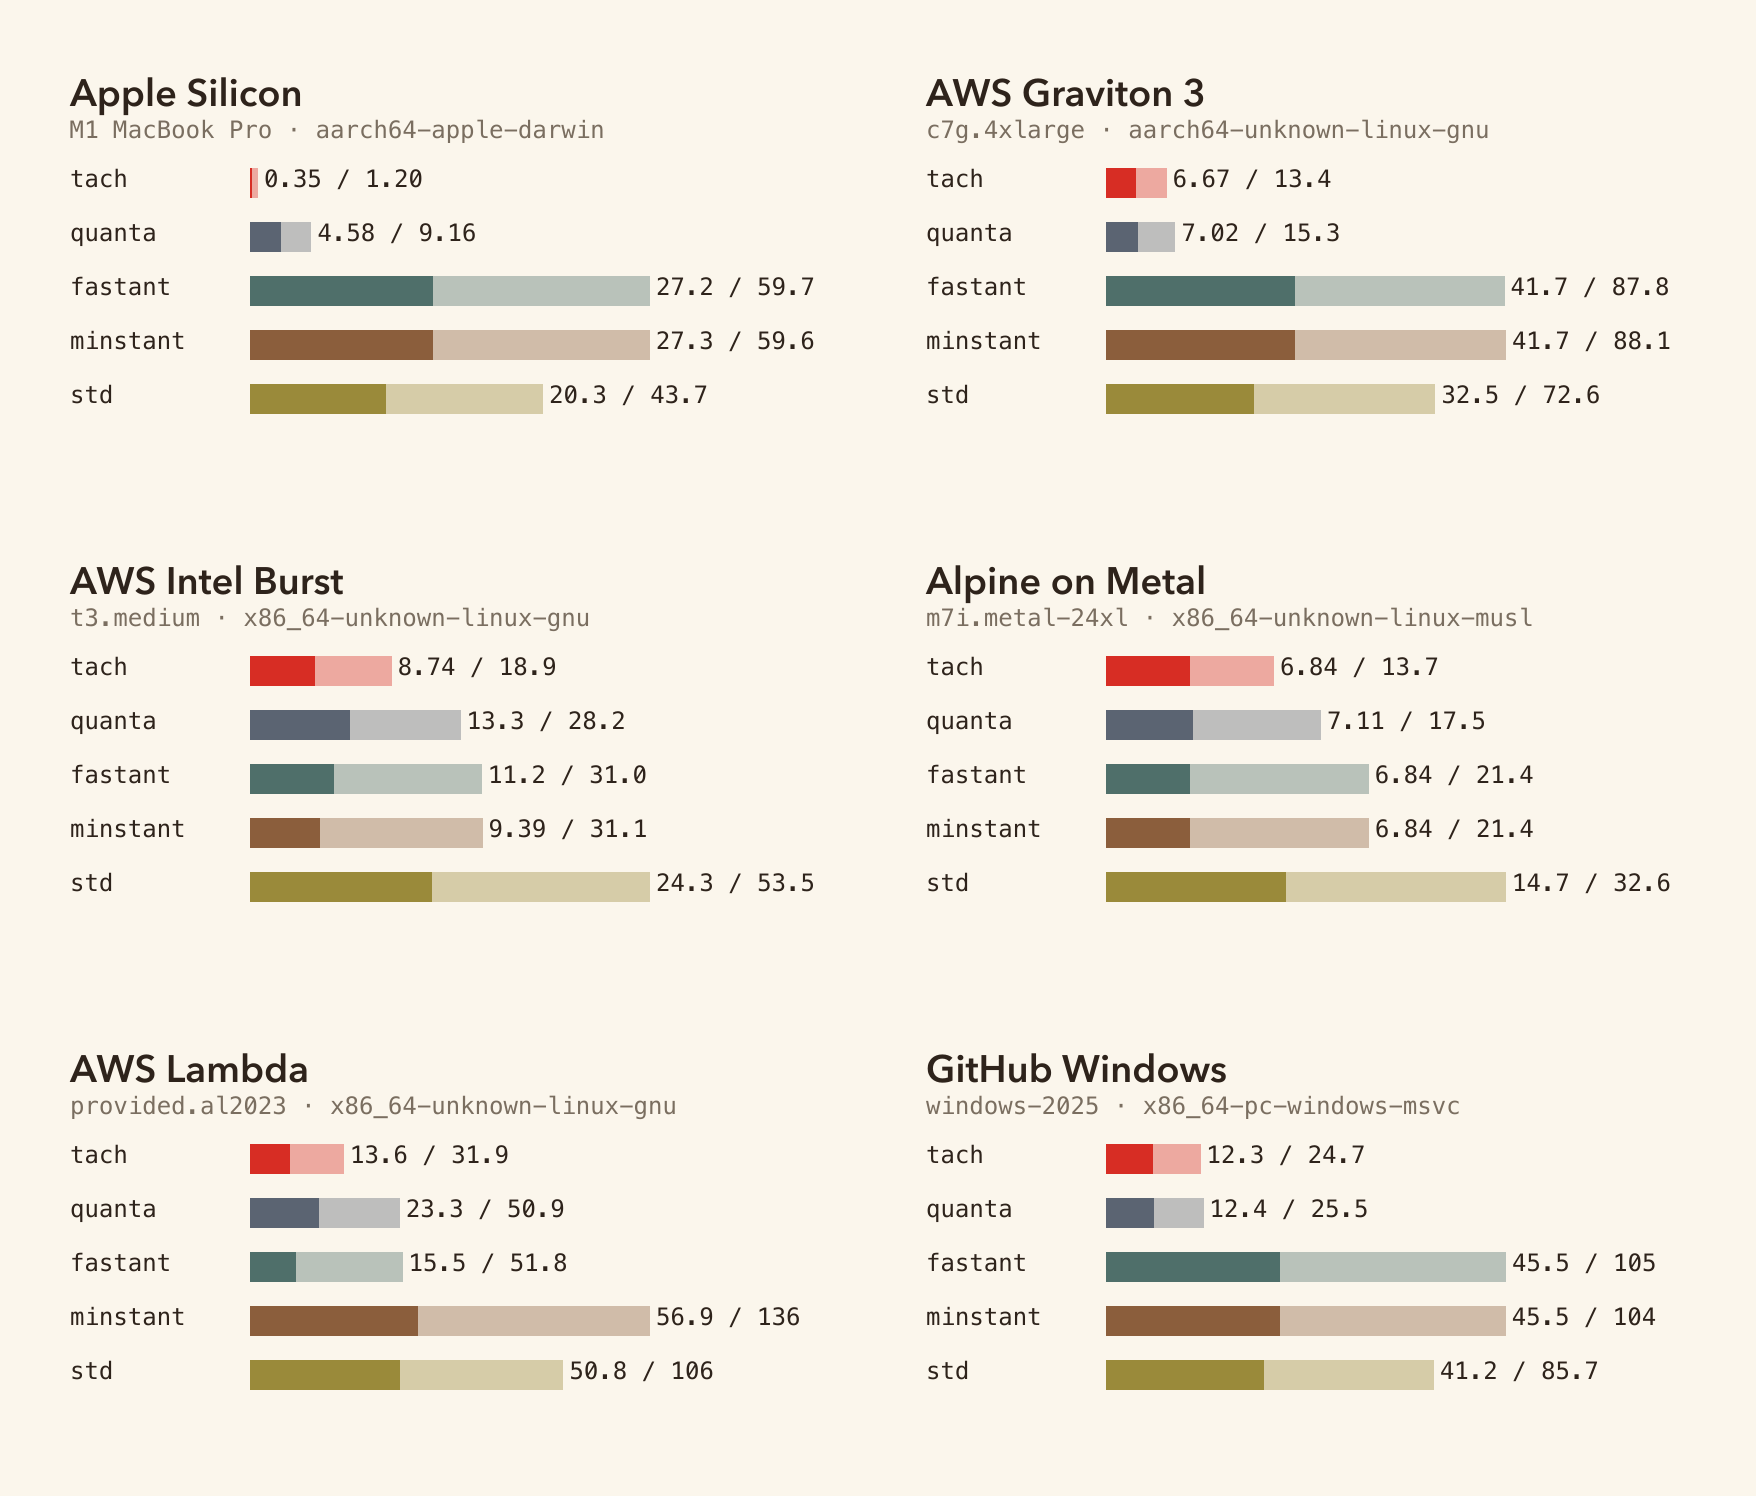
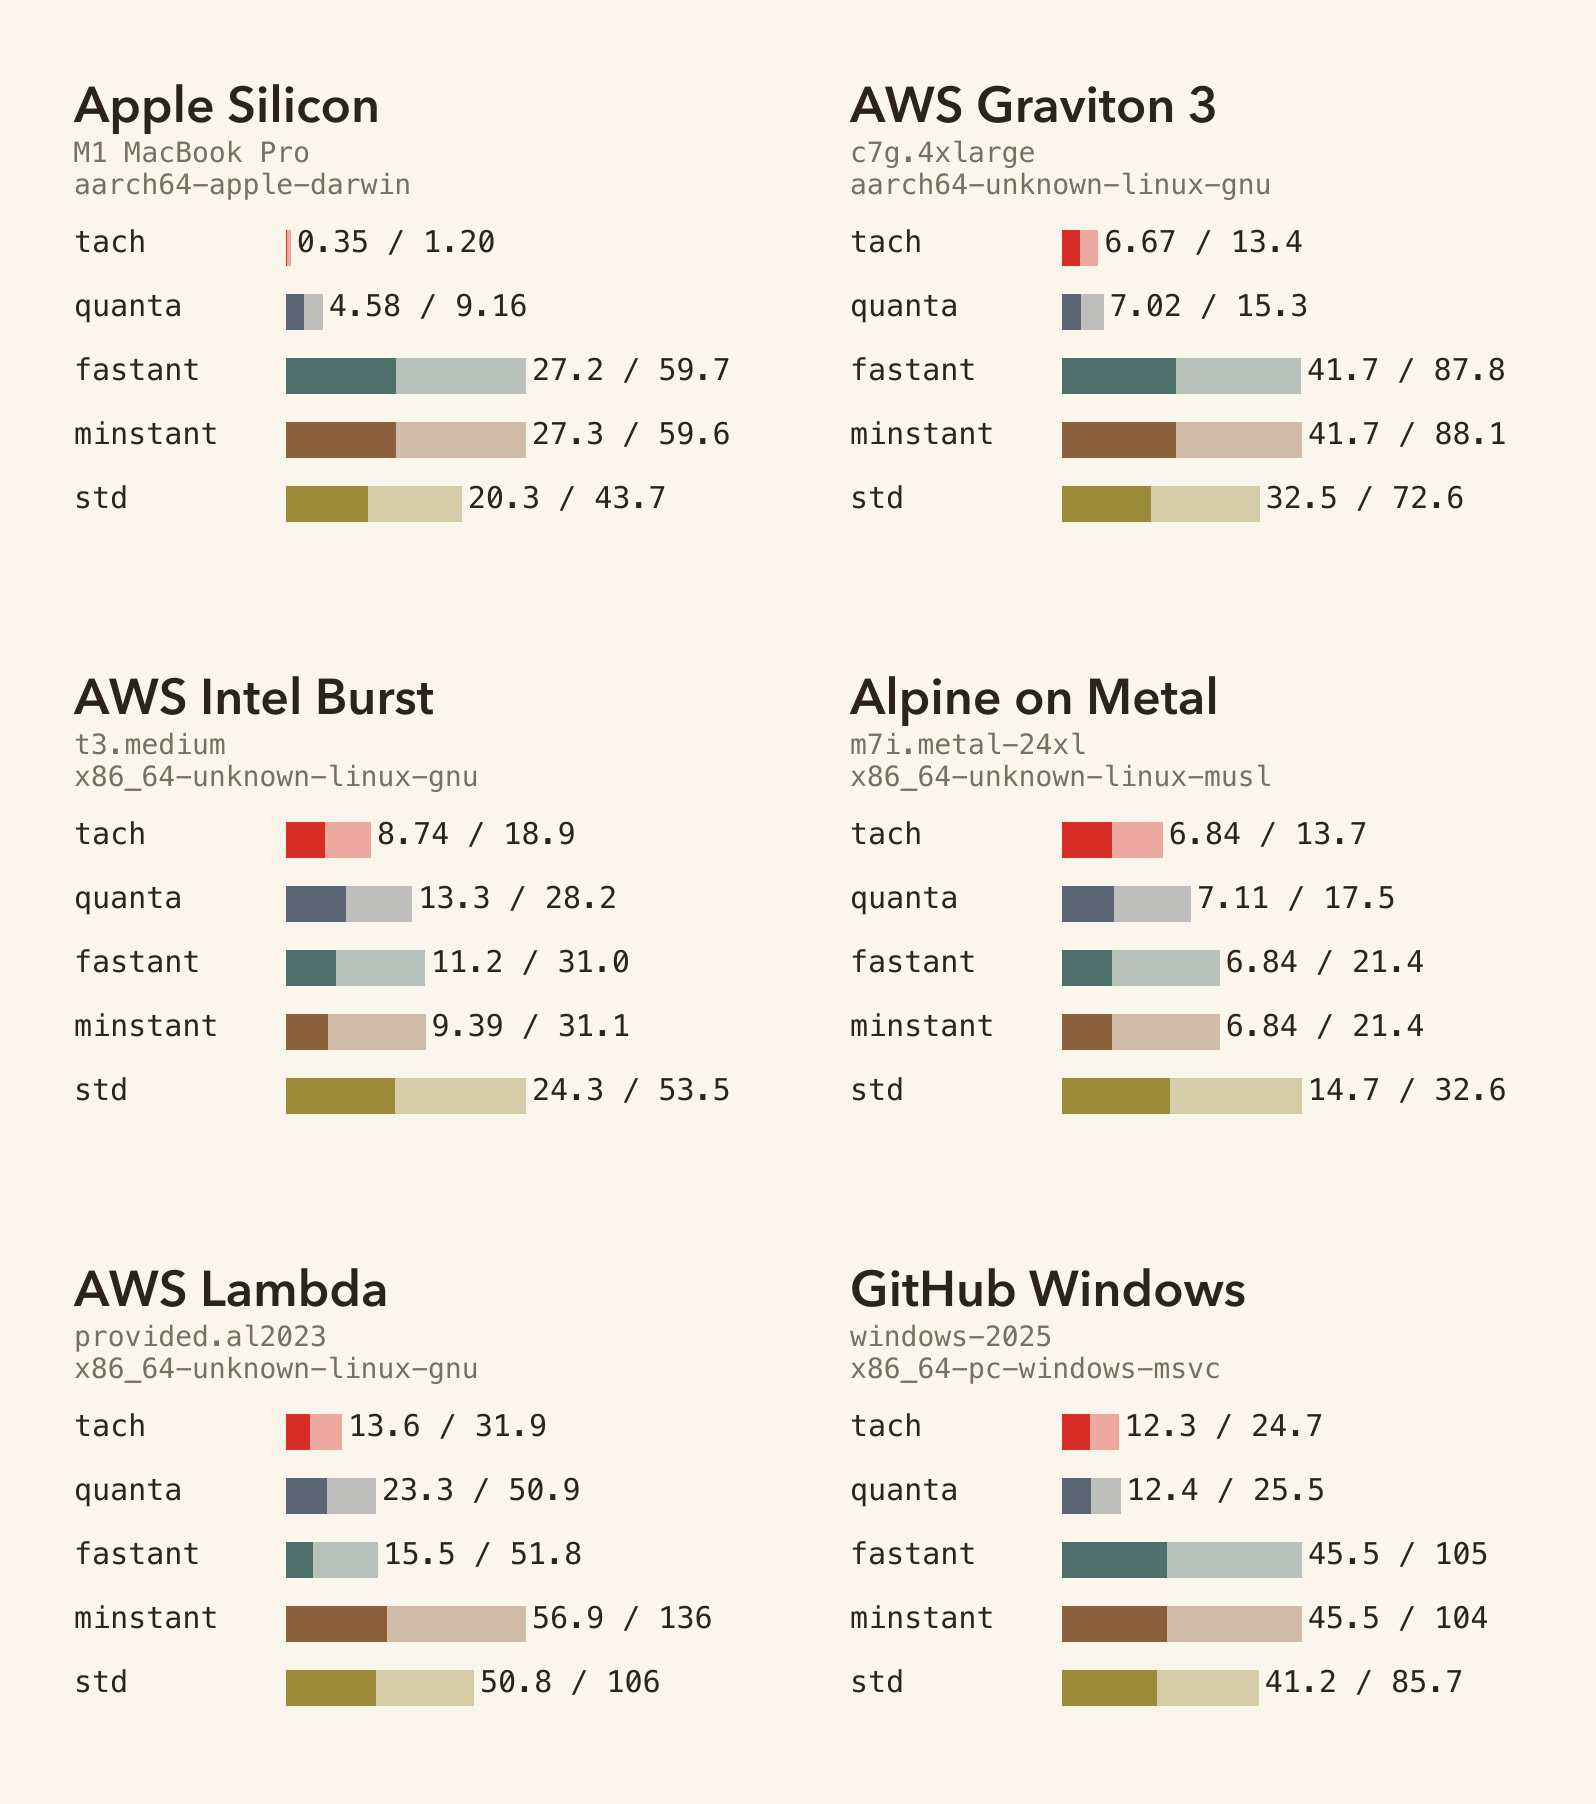
docs(benches): bump grid chart text size, split subtitle into two lines
Title 50pt, body 30pt. Subtitle now renders the instance and
target triple on separate lines so long target-triple strings
no longer overlap into adjacent cells.

diff --git a/benches/assets/render_benchmark.py b/benches/assets/render_benchmark.py
@@ -227,20 +227,20 @@ def render_combined_svg(now_groups, elapsed_groups, crates, bar_width, group_wid
 
 
 GRID_COLS = 2
-GRID_CELL_W = 820
-GRID_CELL_H = 440
+GRID_CELL_W = 740
+GRID_CELL_H = 540
 GRID_COL_GAP = 36
-GRID_ROW_GAP = 48
+GRID_ROW_GAP = 52
 GRID_MARGIN = 40
-GRID_CELL_PAD = 30
-GRID_TITLE_FONT_SIZE = 38
-GRID_SUBTITLE_FONT_SIZE = 24
-GRID_LABEL_FONT_SIZE = 24
-GRID_VALUE_FONT_SIZE = 24
-GRID_ROW_HEIGHT = 54
-GRID_BAR_HEIGHT = 30
-GRID_CRATE_LABEL_WIDTH = 170
-GRID_VALUE_RESERVE = 180
+GRID_CELL_PAD = 34
+GRID_TITLE_FONT_SIZE = 50
+GRID_SUBTITLE_FONT_SIZE = 28
+GRID_LABEL_FONT_SIZE = 30
+GRID_VALUE_FONT_SIZE = 30
+GRID_ROW_HEIGHT = 64
+GRID_BAR_HEIGHT = 36
+GRID_CRATE_LABEL_WIDTH = 200
+GRID_VALUE_RESERVE = 220
 GRID_LIGHTEN = 0.62
 
 
@@ -289,21 +289,27 @@ def render_grid_cell(now_group, elapsed_group, crates, x0: float, y0: float) -> 
     styled_text(title_x, title_y, title, GRID_TITLE_FONT_SIZE, anchor="start", weight="600")
   )
 
-  subtitle = f"{instance} · {triple}"
-  subtitle_y = title_y + GRID_SUBTITLE_FONT_SIZE + 8
+  subtitle_y = title_y + GRID_SUBTITLE_FONT_SIZE + 12
   parts.append(
     styled_text(
-      title_x, subtitle_y, subtitle, GRID_SUBTITLE_FONT_SIZE,
+      title_x, subtitle_y, instance, GRID_SUBTITLE_FONT_SIZE,
+      family=MONO, color=MUTED_FG, anchor="start",
+    )
+  )
+  triple_y = subtitle_y + GRID_SUBTITLE_FONT_SIZE + 4
+  parts.append(
+    styled_text(
+      title_x, triple_y, triple, GRID_SUBTITLE_FONT_SIZE,
       family=MONO, color=MUTED_FG, anchor="start",
     )
   )
 
-  bar_area_left = title_x + GRID_CRATE_LABEL_WIDTH + 10
+  bar_area_left = title_x + GRID_CRATE_LABEL_WIDTH + 12
   bar_area_right = x0 + GRID_CELL_W - GRID_CELL_PAD - GRID_VALUE_RESERVE
   bar_area_width = bar_area_right - bar_area_left
   cell_max = max(elapsed_vals)
 
-  rows_top = subtitle_y + 18
+  rows_top = triple_y + 22
   for i, ((crate_full, color), now_v, elapsed_v) in enumerate(zip(crates, now_vals, elapsed_vals)):
     row_top = rows_top + i * GRID_ROW_HEIGHT
     bar_y = row_top + (GRID_ROW_HEIGHT - GRID_BAR_HEIGHT) / 2
